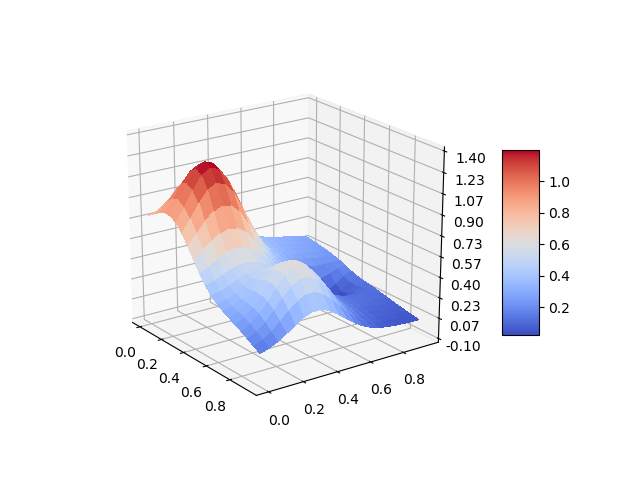
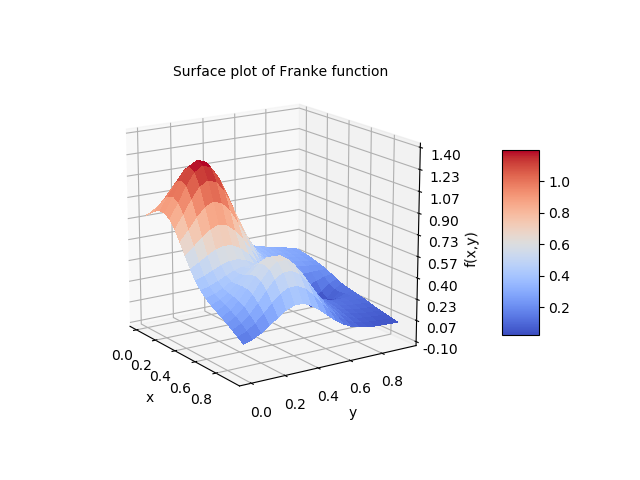
new figure

Changed region(s): [[0.1875, 0.1875, 0.75, 0.875], [0.25, 0.125, 0.625, 0.1562], [0.1562, 0.7188, 0.3438, 0.875]]

diff --git a/Code/regression_scikit.py b/Code/regression_scikit.py
@@ -13,6 +13,7 @@ from sklearn.metrics import mean_squared_error
 import sys
 
 fig = plt.figure()
+ax = fig.gca(projection='3d')
 
 # Read command line arguments ('method', number of x and y values, degree of polynom, alpha parameter)
 
@@ -80,6 +81,21 @@ print ('MSE_scikit = %s' % MSE_scikit)
 print ('MSE = %s' % MSE)
 
 
+# Plot the surface.
+surf = ax.plot_surface(x, y, z, cmap=cm.coolwarm,
+linewidth=0, antialiased=False)
+# Customize the z axis.
+ax.set_zlim(-0.10, 1.40)
+ax.zaxis.set_major_locator(LinearLocator(10))
+ax.zaxis.set_major_formatter(FormatStrFormatter('%.02f'))
+# Add a color bar which maps values to colors.
+fig.colorbar(surf, shrink=0.5, aspect=5, pad=0.1)
+ax.text2D(0.25, 0.95, "Surface plot of Franke function", transform=ax.transAxes)
+ax.set_xlabel('x')
+ax.set_ylabel('y')
+ax.set_zlabel('f(x,y)')
+plt.show()
+"""
 # Plot the surface 
 ax = fig.add_subplot(2, 1, 1, projection='3d')
 surf = ax.plot_surface(x, y, z, cmap=cm.coolwarm,
@@ -101,8 +117,8 @@ ax.set_zlim(-0.10, 1.40)
 ax.zaxis.set_major_locator(LinearLocator(10))
 ax.zaxis.set_major_formatter(FormatStrFormatter('%.02f'))
 
-
-#plt.show()
+"""
+plt.show()
 
 
 
